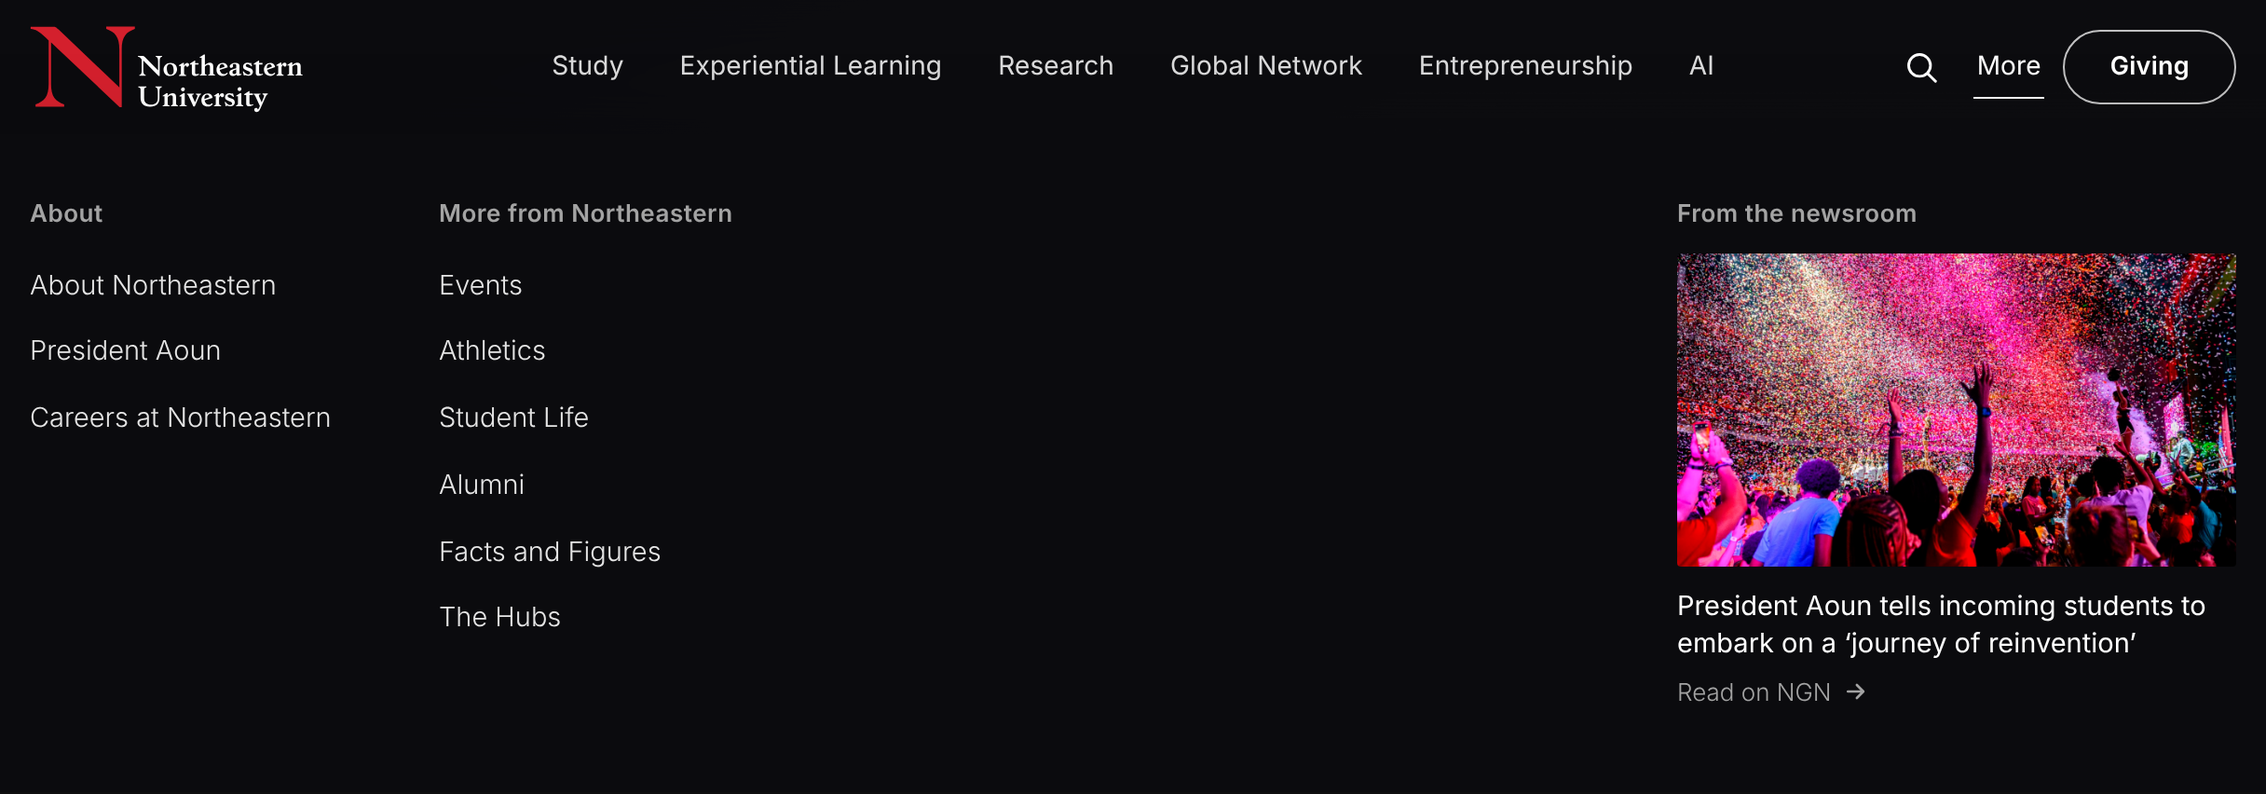
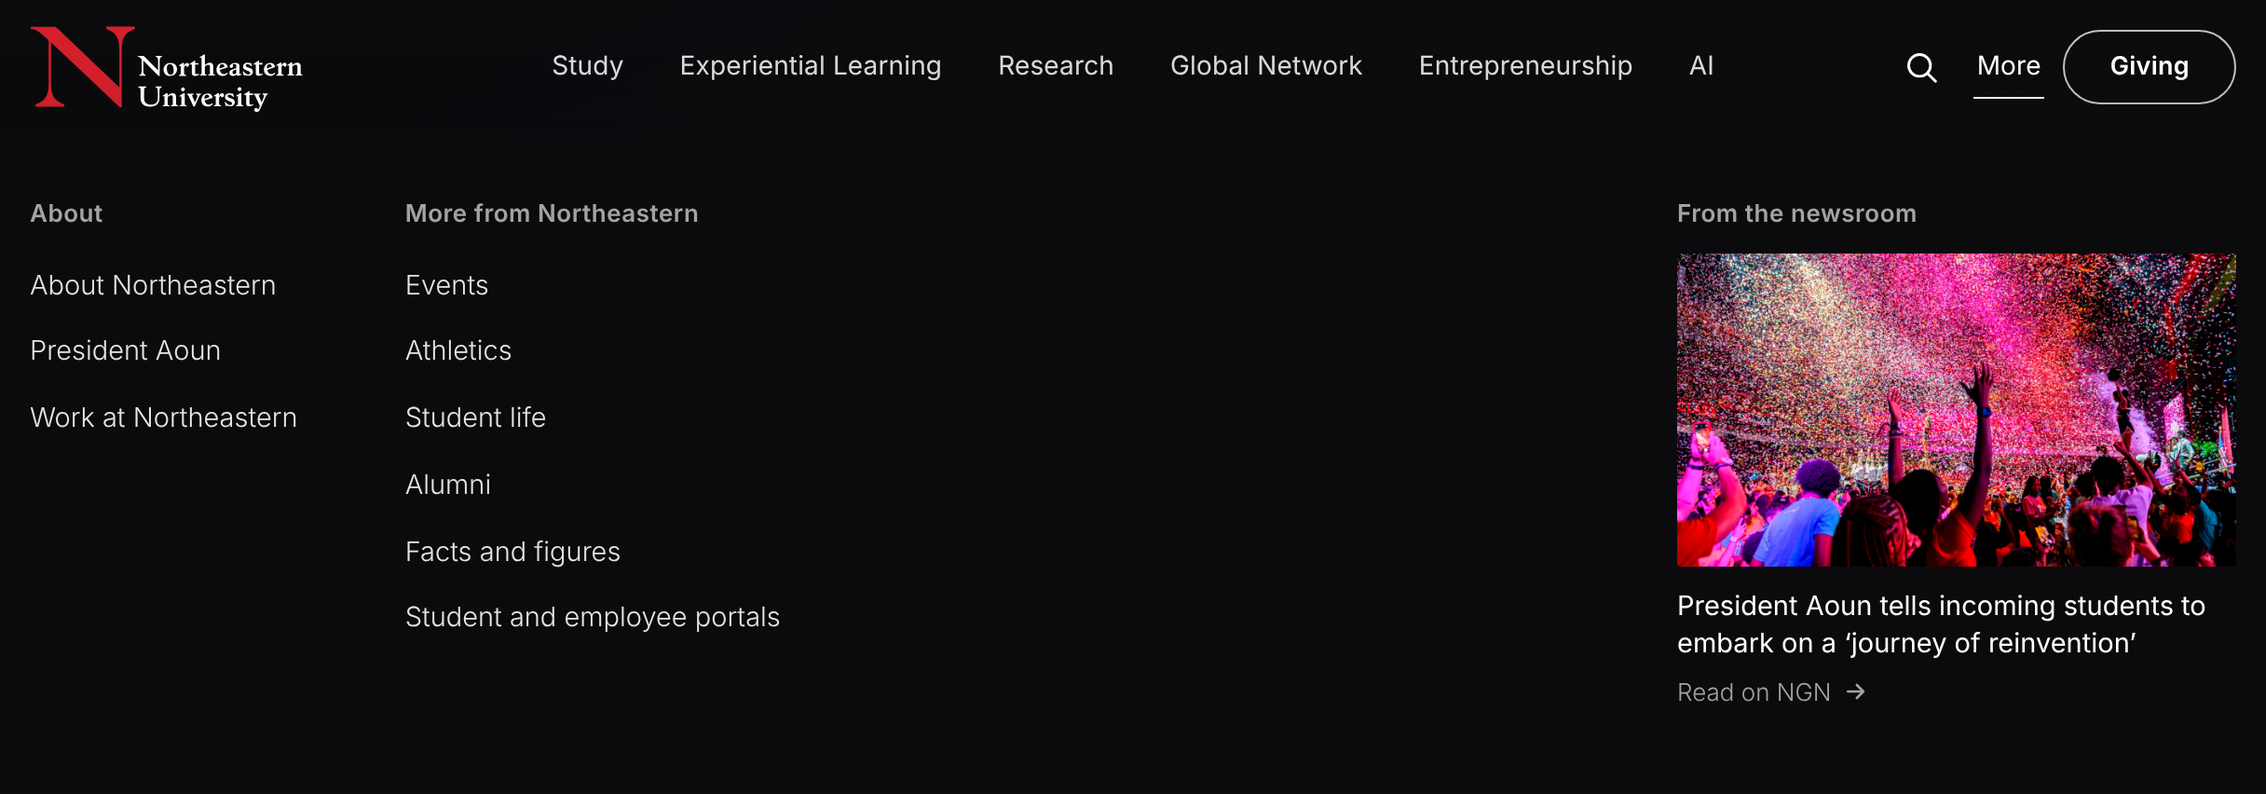
Concept 22: every nav label in plain language for first-time visitors, in sentence case; compare page updated
Claude-Session: https://claude.ai/code/session_01NmDkJiMHENnTGWnZnRnkmx

diff --git a/concept-22/index.html b/concept-22/index.html
@@ -1438,17 +1438,17 @@
       </div></div>
       <div class="mp-col"><div class="mp-h">Programs</div><div class="mp-links">
         <a href="https://www.northeastern.edu/academics/colleges-and-schools/">Colleges and schools</a>
-        <a href="https://phd.northeastern.edu/">Doctoral programs</a>
-        <a href="https://online.northeastern.edu/">Online education</a>
+        <a href="https://phd.northeastern.edu/">PhD and doctoral programs</a>
+        <a href="https://online.northeastern.edu/">Online programs</a>
       </div></div>
   </div></div>
   <div class="mpanel" id="mp-experiential" hidden><div class="wrap mp-in">
       <div class="mp-lead"><div class="mp-title">Experiential Learning</div><p>Education on the job, in the field, everywhere.</p><a class="storylink" href="https://experientiallearning.northeastern.edu/">Experiential Learning overview</a></div>
       <div class="mp-col"><div class="mp-h">Opportunities</div><div class="mp-links">
-        <a href="https://www.northeastern.edu/co-op">Cooperative Education</a>
-        <a href="https://experientiallearning.northeastern.edu/experiential-opportunities/academic/">Academic</a>
-        <a href="https://experientiallearning.northeastern.edu/experiential-opportunities/professional/">Professional</a>
-        <a href="https://experientiallearning.northeastern.edu/experiential-opportunities/extracurricular/">Extracurricular</a>
+        <a href="https://www.northeastern.edu/co-op">Co-op: paid work placements</a>
+        <a href="https://experientiallearning.northeastern.edu/experiential-opportunities/academic/">Academic experiences</a>
+        <a href="https://experientiallearning.northeastern.edu/experiential-opportunities/professional/">Professional experiences</a>
+        <a href="https://experientiallearning.northeastern.edu/experiential-opportunities/extracurricular/">Extracurricular experiences</a>
       </div></div>
       <div class="mp-col"><div class="mp-h">For employers</div><div class="mp-links">
         <a href="https://experientiallearning.northeastern.edu/partnerships/">Hire Northeastern students</a>
@@ -1458,24 +1458,24 @@
   <div class="mpanel" id="mp-research" hidden><div class="wrap mp-in">
       <div class="mp-lead"><div class="mp-title">Research</div><p>Discovery that solves real problems, with students in the work.</p><a class="storylink" href="https://research.northeastern.edu/">Research overview</a></div>
       <div class="mp-col"><div class="mp-h">Explore</div><div class="mp-links">
-        <a href="https://research.northeastern.edu/institutes-and-centers/">Institutes and Centers</a>
-        <a href="https://research.northeastern.edu/ug-research/">Undergraduate Research</a>
-        <a href="https://research.northeastern.edu/phd-research/">PhD Research</a>
-        <a href="https://research.northeastern.edu/partnerships/">Research Partnerships</a>
+        <a href="https://research.northeastern.edu/institutes-and-centers/">Research institutes and centers</a>
+        <a href="https://research.northeastern.edu/ug-research/">Undergraduate research</a>
+        <a href="https://research.northeastern.edu/phd-research/">PhD research</a>
+        <a href="https://research.northeastern.edu/partnerships/">Partner with our researchers</a>
       </div></div>
-      <div class="mp-col"><div class="mp-h">Leadership areas</div><div class="mp-links">
-        <a href="https://research.northeastern.edu/network-science/">Network Science</a>
-        <a href="https://research.northeastern.edu/cognitive-and-brain-health/">Cognitive and Brain Health</a>
-        <a href="https://research.northeastern.edu/network-engineering/">Network Engineering</a>
+      <div class="mp-col"><div class="mp-h">Where we lead</div><div class="mp-links">
+        <a href="https://research.northeastern.edu/network-science/">Network science</a>
+        <a href="https://research.northeastern.edu/cognitive-and-brain-health/">Cognitive and brain health</a>
+        <a href="https://research.northeastern.edu/network-engineering/">Network engineering</a>
       </div></div>
       <div class="mp-col mp-featcol"><div class="mp-h">From the newsroom</div><a class="mp-feat" href="https://news.northeastern.edu/2025/10/01/walking-the-future/"><img src="https://news.northeastern.edu/wp-content/uploads/2025/09/093025_MM_Field_Robotos_Lab_033.jpg" alt="" loading="lazy"><span class="ft">Robots walk to class here. Student researchers are teaching them how</span><span class="fl">Read on NGN<svg viewBox="0 0 16 16" width="14" height="14" aria-hidden="true" style="vertical-align:-2px;margin-left:6px"><path d="M3 8h9M8.5 4l4 4-4 4" fill="none" stroke="currentColor" stroke-width="1.5" stroke-linecap="round" stroke-linejoin="round"/></svg></span></a></div>
   </div></div>
   <div class="mpanel" id="mp-global" hidden><div class="wrap mp-in">
       <div class="mp-col"><div class="mp-h">Global</div><div class="mp-links">
-        <a href="https://www.northeastern.edu/our-global-university-system/">Our Global University System</a>
-        <a href="https://geo.northeastern.edu/programs/study-abroad/">Study Abroad</a>
-        <a href="https://nuin.northeastern.edu/">N.U.in Program</a>
-        <a href="https://international.northeastern.edu/">International Student Hub</a>
+        <a href="https://www.northeastern.edu/our-global-university-system/">About our global network</a>
+        <a href="https://geo.northeastern.edu/programs/study-abroad/">Study abroad</a>
+        <a href="https://nuin.northeastern.edu/">Start your first year abroad (N.U.in)</a>
+        <a href="https://international.northeastern.edu/">Support for international students</a>
       </div></div>
       <div class="mp-col cols2"><div class="mp-h">Campuses</div><div class="mp-links">
         <a href="https://arlington.northeastern.edu/">Arlington, VA</a>
@@ -1498,9 +1498,9 @@
   <div class="mpanel" id="mp-ent" hidden><div class="wrap mp-in">
       <div class="mp-lead"><div class="mp-title">Global Entrepreneurship</div><p>Start something, anywhere.</p><a class="storylink" href="https://entrepreneurship.northeastern.edu/">Overview</a></div>
       <div class="mp-col"><div class="mp-h">Explore</div><div class="mp-links">
-        <a href="https://entrepreneurship.northeastern.edu/offerings/">Programs and resources</a>
-        <a href="https://damore-mckim.northeastern.edu/idea/">IDEA venture accelerator</a>
-        <a href="https://mosaic.entrepreneurship.northeastern.edu/">Mosaic student network</a>
+        <a href="https://entrepreneurship.northeastern.edu/offerings/">Entrepreneurship programs</a>
+        <a href="https://damore-mckim.northeastern.edu/idea/">Funding and coaching for your startup</a>
+        <a href="https://mosaic.entrepreneurship.northeastern.edu/">Student entrepreneurship clubs</a>
       </div></div>
       <div class="mp-col mp-featcol"><div class="mp-h">From the newsroom</div><a class="mp-feat" href="https://news.northeastern.edu/2026/06/05/startup-pitch-competition-london-summit/"><img src="https://news.northeastern.edu/wp-content/uploads/2026/06/060426_CV_GLS_day1_048.jpg" alt="" loading="lazy"><span class="ft">Founders pitch startups in Dragons’ Den-style event for funding</span><span class="fl">Read on NGN<svg viewBox="0 0 16 16" width="14" height="14" aria-hidden="true" style="vertical-align:-2px;margin-left:6px"><path d="M3 8h9M8.5 4l4 4-4 4" fill="none" stroke="currentColor" stroke-width="1.5" stroke-linecap="round" stroke-linejoin="round"/></svg></span></a></div>
   </div></div>
@@ -1508,15 +1508,15 @@
       <div class="mp-col"><div class="mp-h">About</div><div class="mp-links">
         <a href="https://www.northeastern.edu/about/about-northeastern/">About Northeastern</a>
         <a href="https://president.northeastern.edu/">President Aoun</a>
-        <a href="https://hr.northeastern.edu/">Careers at Northeastern</a>
+        <a href="https://hr.northeastern.edu/">Work at Northeastern</a>
       </div></div>
       <div class="mp-col"><div class="mp-h">More from Northeastern</div><div class="mp-links">
         <a href="https://calendar.northeastern.edu/">Events</a>
         <a href="https://nuhuskies.com/">Athletics</a>
-        <a href="https://studentlife.northeastern.edu/">Student Life</a>
+        <a href="https://studentlife.northeastern.edu/">Student life</a>
         <a href="https://alumni.northeastern.edu/">Alumni</a>
-        <a href="https://facts.northeastern.edu/">Facts and Figures</a>
-        <a href="https://about.me.northeastern.edu/select-your-destination/">The Hubs</a>
+        <a href="https://facts.northeastern.edu/">Facts and figures</a>
+        <a href="https://about.me.northeastern.edu/select-your-destination/">Student and employee portals</a>
       </div></div>
       <div class="mp-col mp-featcol"><div class="mp-h">From the newsroom</div><a class="mp-feat" href="https://news.northeastern.edu/2023/09/06/convocation-2023/"><img src="https://news.northeastern.edu/wp-content/uploads/2023/09/Convocation1400.jpg" alt="" loading="lazy"><span class="ft">President Aoun tells incoming students to embark on a ‘journey of reinvention’</span><span class="fl">Read on NGN<svg viewBox="0 0 16 16" width="14" height="14" aria-hidden="true" style="vertical-align:-2px;margin-left:6px"><path d="M3 8h9M8.5 4l4 4-4 4" fill="none" stroke="currentColor" stroke-width="1.5" stroke-linecap="round" stroke-linejoin="round"/></svg></span></a></div>
   </div></div>
@@ -1547,18 +1547,18 @@
         <a href="https://admissions.northeastern.edu/visit/">Visit a campus</a>
         <a href="https://studentfinance.northeastern.edu/">Financial aid</a>
         <a href="https://www.northeastern.edu/academics/colleges-and-schools/">Colleges and schools</a>
-        <a href="https://phd.northeastern.edu/">Doctoral programs</a>
-        <a href="https://online.northeastern.edu/">Online education</a>
+        <a href="https://phd.northeastern.edu/">PhD and doctoral programs</a>
+        <a href="https://online.northeastern.edu/">Online programs</a>
       </div>
     </div>
     <div class="tkv-grp">
       <button class="tkv-g" data-sub="tsub-2" aria-expanded="false">Experiential Learning<span class="tkv-c" aria-hidden="true"><svg viewBox="0 0 16 16" width="16" height="16"><path d="M4 6l4 4 4-4" fill="none" stroke="currentColor" stroke-width="1.5" stroke-linecap="round" stroke-linejoin="round"/></svg></span></button>
       <div class="tkv-sub" id="tsub-2">
         <a href="https://experientiallearning.northeastern.edu/">Experiential Learning overview</a>
-        <a href="https://www.northeastern.edu/co-op">Cooperative Education</a>
-        <a href="https://experientiallearning.northeastern.edu/experiential-opportunities/academic/">Academic</a>
-        <a href="https://experientiallearning.northeastern.edu/experiential-opportunities/professional/">Professional</a>
-        <a href="https://experientiallearning.northeastern.edu/experiential-opportunities/extracurricular/">Extracurricular</a>
+        <a href="https://www.northeastern.edu/co-op">Co-op: paid work placements</a>
+        <a href="https://experientiallearning.northeastern.edu/experiential-opportunities/academic/">Academic experiences</a>
+        <a href="https://experientiallearning.northeastern.edu/experiential-opportunities/professional/">Professional experiences</a>
+        <a href="https://experientiallearning.northeastern.edu/experiential-opportunities/extracurricular/">Extracurricular experiences</a>
         <a href="https://experientiallearning.northeastern.edu/partnerships/">Hire Northeastern students</a>
       </div>
     </div>
@@ -1566,31 +1566,31 @@
       <button class="tkv-g" data-sub="tsub-3" aria-expanded="false">Research<span class="tkv-c" aria-hidden="true"><svg viewBox="0 0 16 16" width="16" height="16"><path d="M4 6l4 4 4-4" fill="none" stroke="currentColor" stroke-width="1.5" stroke-linecap="round" stroke-linejoin="round"/></svg></span></button>
       <div class="tkv-sub" id="tsub-3">
         <a href="https://research.northeastern.edu/">Research overview</a>
-        <a href="https://research.northeastern.edu/institutes-and-centers/">Institutes and Centers</a>
-        <a href="https://research.northeastern.edu/ug-research/">Undergraduate Research</a>
-        <a href="https://research.northeastern.edu/phd-research/">PhD Research</a>
-        <a href="https://research.northeastern.edu/partnerships/">Research Partnerships</a>
-        <a href="https://research.northeastern.edu/network-science/">Network Science</a>
-        <a href="https://research.northeastern.edu/cognitive-and-brain-health/">Cognitive and Brain Health</a>
-        <a href="https://research.northeastern.edu/network-engineering/">Network Engineering</a>
+        <a href="https://research.northeastern.edu/institutes-and-centers/">Research institutes and centers</a>
+        <a href="https://research.northeastern.edu/ug-research/">Undergraduate research</a>
+        <a href="https://research.northeastern.edu/phd-research/">PhD research</a>
+        <a href="https://research.northeastern.edu/partnerships/">Partner with our researchers</a>
+        <a href="https://research.northeastern.edu/network-science/">Network science</a>
+        <a href="https://research.northeastern.edu/cognitive-and-brain-health/">Cognitive and brain health</a>
+        <a href="https://research.northeastern.edu/network-engineering/">Network engineering</a>
       </div>
     </div>
     <div class="tkv-grp">
       <button class="tkv-g" data-sub="tsub-4" aria-expanded="false">Global Network<span class="tkv-c" aria-hidden="true"><svg viewBox="0 0 16 16" width="16" height="16"><path d="M4 6l4 4 4-4" fill="none" stroke="currentColor" stroke-width="1.5" stroke-linecap="round" stroke-linejoin="round"/></svg></span></button>
       <div class="tkv-sub" id="tsub-4">
-        <a href="https://www.northeastern.edu/our-global-university-system/">Our Global University System</a>
-        <a href="https://geo.northeastern.edu/programs/study-abroad/">Study Abroad</a>
-        <a href="https://nuin.northeastern.edu/">N.U.in Program</a>
-        <a href="https://international.northeastern.edu/">International Student Hub</a>
+        <a href="https://www.northeastern.edu/our-global-university-system/">About our global network</a>
+        <a href="https://geo.northeastern.edu/programs/study-abroad/">Study abroad</a>
+        <a href="https://nuin.northeastern.edu/">Start your first year abroad (N.U.in)</a>
+        <a href="https://international.northeastern.edu/">Support for international students</a>
       </div>
     </div>
     <div class="tkv-grp">
       <button class="tkv-g" data-sub="tsub-ent" aria-expanded="false">Entrepreneurship<span class="tkv-c" aria-hidden="true"><svg viewBox="0 0 16 16" width="16" height="16"><path d="M4 6l4 4 4-4" fill="none" stroke="currentColor" stroke-width="1.5" stroke-linecap="round" stroke-linejoin="round"/></svg></span></button>
       <div class="tkv-sub" id="tsub-ent">
         <a href="https://entrepreneurship.northeastern.edu/">Global Entrepreneurship</a>
-        <a href="https://entrepreneurship.northeastern.edu/offerings/">Programs and resources</a>
-        <a href="https://damore-mckim.northeastern.edu/idea/">IDEA venture accelerator</a>
-        <a href="https://mosaic.entrepreneurship.northeastern.edu/">Mosaic student network</a>
+        <a href="https://entrepreneurship.northeastern.edu/offerings/">Entrepreneurship programs</a>
+        <a href="https://damore-mckim.northeastern.edu/idea/">Funding and coaching for your startup</a>
+        <a href="https://mosaic.entrepreneurship.northeastern.edu/">Student entrepreneurship clubs</a>
       </div>
     </div>
     <a class="tkv-l" href="https://www.northeastern.edu/ai/">AI<svg class="tkv-arr" viewBox="0 0 16 16" aria-hidden="true"><path d="M3 8h9M8.5 4l4 4-4 4" fill="none" stroke="currentColor" stroke-width="1.5" stroke-linecap="round" stroke-linejoin="round"/></svg></a>
@@ -1618,16 +1618,16 @@
       <div class="tkv-sub" id="tsub-6">
         <a href="https://www.northeastern.edu/about/about-northeastern/">About Northeastern</a>
         <a href="https://president.northeastern.edu/">President Aoun</a>
-        <a href="https://hr.northeastern.edu/">Careers at Northeastern</a>
+        <a href="https://hr.northeastern.edu/">Work at Northeastern</a>
       </div>
     </div>
     <div class="tkv-more">
       <a href="https://calendar.northeastern.edu/">Events</a>
       <a href="https://nuhuskies.com/">Athletics</a>
-      <a href="https://studentlife.northeastern.edu/">Student Life</a>
+      <a href="https://studentlife.northeastern.edu/">Student life</a>
       <a href="https://alumni.northeastern.edu/">Alumni</a>
-      <a href="https://facts.northeastern.edu/">Facts and Figures</a>
-      <a href="https://about.me.northeastern.edu/select-your-destination/">The Hubs</a>
+      <a href="https://facts.northeastern.edu/">Facts and figures</a>
+      <a href="https://about.me.northeastern.edu/select-your-destination/">Student and employee portals</a>
     </div>
   </div>
 </div>

diff --git a/nav-compare/index.html b/nav-compare/index.html
@@ -43,7 +43,7 @@
 <body>
 <header class="top"><div class="wrap">
   <h1>Navigation: before and after</h1>
-  <p class="lede">Left: <a href="../concept-14/">Concept 14</a> (current nav). Right: <a href="../concept-22/">Concept 22</a> (pruned nav). Desktop at 1440px wide; phone menu at 390px with every group open. Click any screenshot to open it full size. Grey boxes are newsroom photos that couldn’t load when these were captured; they show on the live pages.</p>
+  <p class="lede">Left: <a href="../concept-14/">Concept 14</a> (current nav). Right: <a href="../concept-22/">Concept 22</a> (pruned nav). Desktop at 1440px wide; phone menu at 390px with every group open. Click any screenshot to open it full size. In Concept 22 every link is labelled in plain language for a first-time visitor (what you get, not a program’s brand name), in sentence case. Grey boxes are newsroom photos that couldn’t load when these were captured; they show on the live pages.</p>
 </div></header>
 
 <nav class="jump" aria-label="Sections"><div class="wrap">
@@ -74,7 +74,7 @@
 
   <section id="experiential">
     <div class="sh"><h2>Experiential Learning</h2><span class="count">Links <b>4 → 6</b> · newsroom card kept</span></div>
-    <ul class="notes"><li>Removed: Experiential Opportunities overview (repeats the main overview), Office of the Chancellor.</li><li>Added: the three opportunity types (Academic, Professional, Extracurricular) and “Hire Northeastern students” for employers.</li></ul>
+    <ul class="notes"><li>Removed: Experiential Opportunities overview (repeats the main overview), Office of the Chancellor.</li><li>Added: academic, professional and extracurricular experiences, and “Hire Northeastern students” for employers.</li></ul>
     <div class="pair">
       <div class="col"><h3>Before · Concept 14</h3><a class="shot" href="shots/c14-mp-experiential.png"><img src="shots/c14-mp-experiential.png" alt="Concept 14 Experiential Learning dropdown" loading="lazy"></a></div>
       <div class="col after"><h3>After · Concept 22</h3><a class="shot" href="shots/c22-mp-experiential.png"><img src="shots/c22-mp-experiential.png" alt="Concept 22 Experiential Learning dropdown" loading="lazy"></a></div>
@@ -83,7 +83,7 @@
 
   <section id="research">
     <div class="sh"><h2>Research</h2><span class="count">Links <b>8 → 8</b> · newsroom card kept</span></div>
-    <ul class="notes"><li>The Health / Security / Sustainability focus areas are replaced by the research site’s current leadership areas: Network Science, Cognitive and Brain Health, Network Engineering.</li><li>Column heading “For researchers” becomes “Explore”, since Undergraduate Research is for students.</li></ul>
+    <ul class="notes"><li>The Health / Security / Sustainability focus areas are replaced by the research site’s current leadership areas, under “Where we lead”: network science, cognitive and brain health, network engineering.</li><li>Column heading “For researchers” becomes “Explore”, since Undergraduate Research is for students.</li></ul>
     <div class="pair">
       <div class="col"><h3>Before · Concept 14</h3><a class="shot" href="shots/c14-mp-research.png"><img src="shots/c14-mp-research.png" alt="Concept 14 Research dropdown" loading="lazy"></a></div>
       <div class="col after"><h3>After · Concept 22</h3><a class="shot" href="shots/c22-mp-research.png"><img src="shots/c22-mp-research.png" alt="Concept 22 Research dropdown" loading="lazy"></a></div>
@@ -92,7 +92,7 @@
 
   <section id="global">
     <div class="sh"><h2>Global Network</h2><span class="count">Links <b>21 → 18</b> (14 are campuses) · newsroom card kept</span></div>
-    <ul class="notes"><li>Removed: Our Global Campuses (the campus list does its job), Global Learning Experiences (parent of Study Abroad), Office of Global Services (part of the International Student Hub), Global Safety and Support.</li><li>Added: N.U.in Program.</li><li>Two columns of general links merge into one.</li></ul>
+    <ul class="notes"><li>Removed: Our Global Campuses (the campus list does its job), Global Learning Experiences (parent of Study Abroad), Office of Global Services (part of the International Student Hub), Global Safety and Support.</li><li>Added: Start your first year abroad (N.U.in).</li><li>Two columns of general links merge into one.</li></ul>
     <div class="pair">
       <div class="col"><h3>Before · Concept 14</h3><a class="shot" href="shots/c14-mp-global.png"><img src="shots/c14-mp-global.png" alt="Concept 14 Global Network dropdown" loading="lazy"></a></div>
       <div class="col after"><h3>After · Concept 22</h3><a class="shot" href="shots/c22-mp-global.png"><img src="shots/c22-mp-global.png" alt="Concept 22 Global Network dropdown" loading="lazy"></a></div>
@@ -101,7 +101,7 @@
 
   <section id="ent">
     <div class="sh"><h2>Entrepreneurship</h2><span class="count">Links <b>1 → 4</b> · newsroom card added</span></div>
-    <ul class="notes"><li>The panel is titled “Global Entrepreneurship”; its link becomes the panel’s “Overview” link.</li><li>Added: Programs and resources, IDEA venture accelerator, Mosaic student network.</li><li>Added a newsroom story: founders pitching at the London summit.</li></ul>
+    <ul class="notes"><li>The panel is titled “Global Entrepreneurship”; its link becomes the panel’s “Overview” link.</li><li>Added: Entrepreneurship programs, Funding and coaching for your startup, Student entrepreneurship clubs.</li><li>Added a newsroom story: founders pitching at the London summit.</li></ul>
     <div class="pair">
       <div class="col"><h3>Before · Concept 14</h3><a class="shot" href="shots/c14-mp-ent.png"><img src="shots/c14-mp-ent.png" alt="Concept 14 Entrepreneurship dropdown" loading="lazy"></a></div>
       <div class="col after"><h3>After · Concept 22</h3><a class="shot" href="shots/c22-mp-ent.png"><img src="shots/c22-mp-ent.png" alt="Concept 22 Entrepreneurship dropdown" loading="lazy"></a></div>
